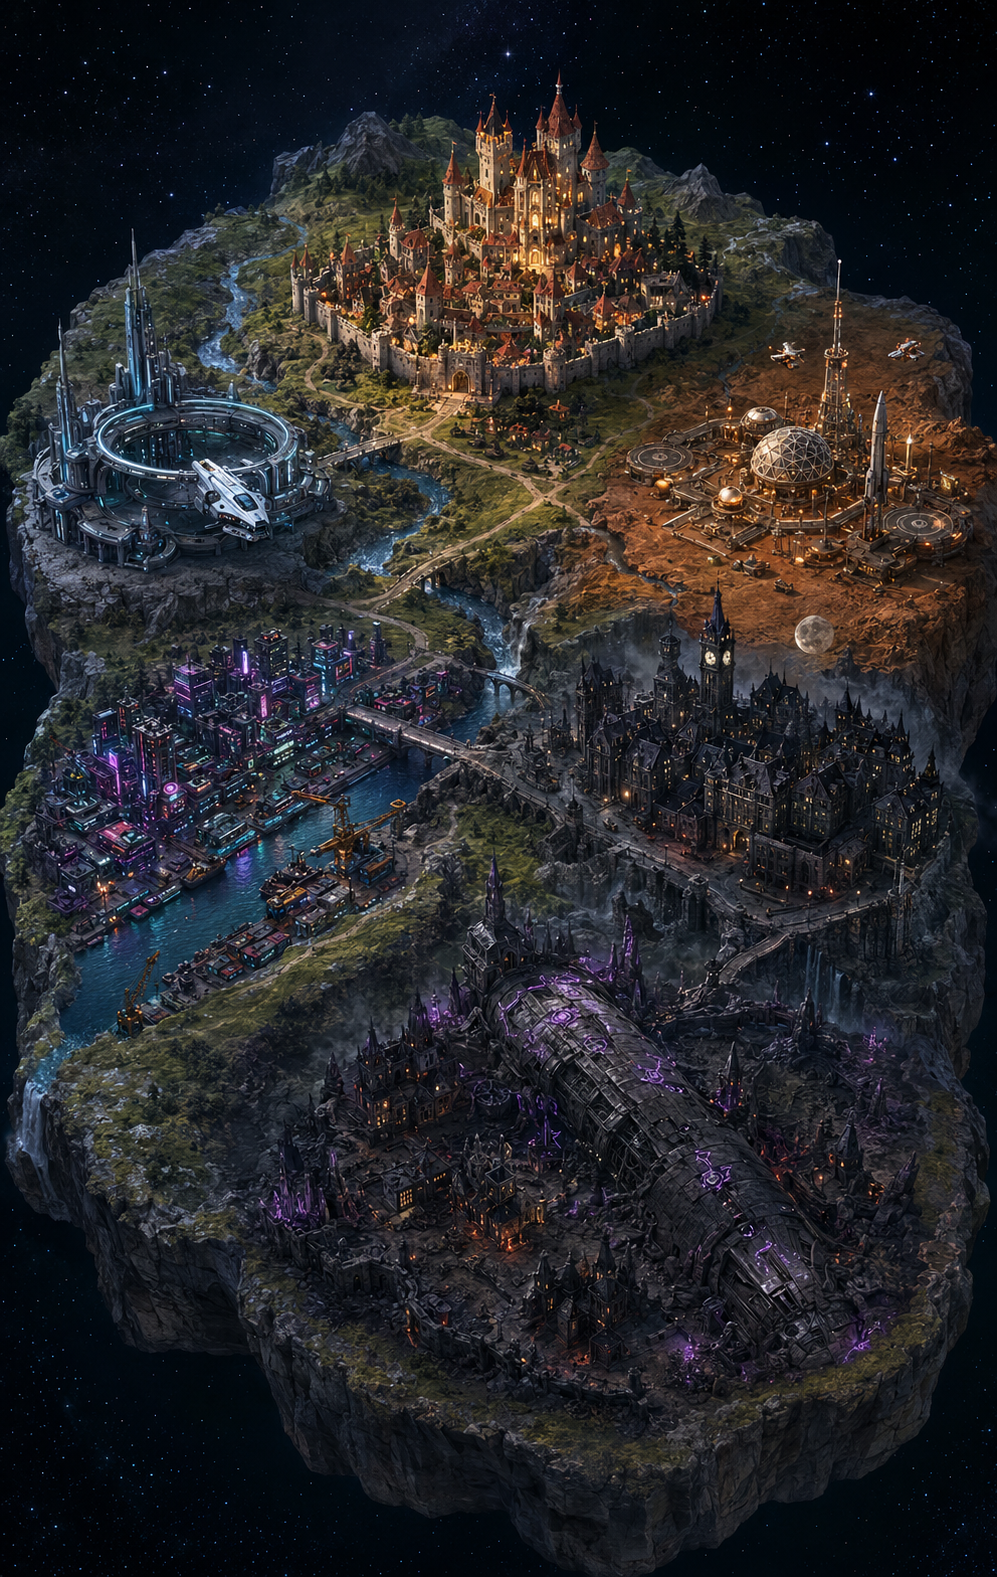
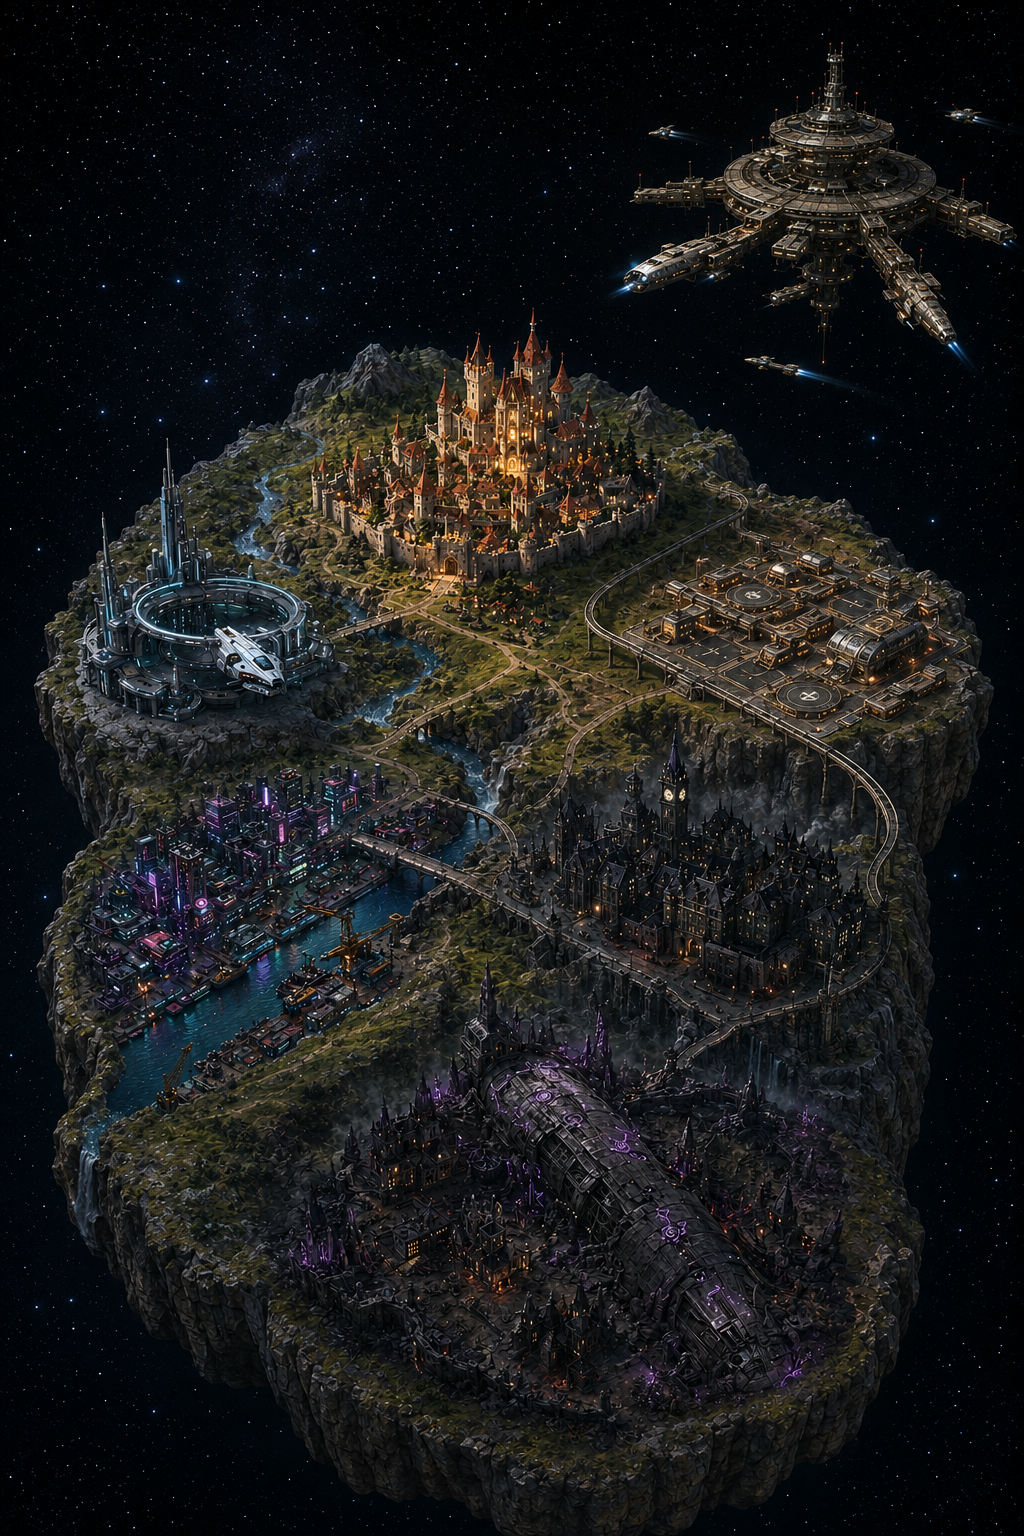
feat(site): update multiverse map to v2 artwork, reposition hotspots
Swaps site/assets/discworld/floating-island.{png,webp} for the updated
master composition (campaign-codex-floating-island-master-v2.png, converted
to the same webp+png production pair as before). The v2 art reworks the
Traveller district (a walled tech city with helipads, replacing the earlier
dome/rocket outpost) and adds a space station in the sky.

Composition shifted enough (different image dimensions too: 1024x1536 vs
the old 997x1577) that all six hotspot positions needed remapping, done
with the same grid-overlay measurement technique as the original placement
and re-verified per-district via cropped screenshots.

Raw source (campaign-codex-floating-island-master-v2.png) is not committed,
consistent with not committing the original raw concept-art pack.

diff --git a/site/index.html b/site/index.html
@@ -69,36 +69,36 @@
             >
           </picture>
 
-          <a href="#install" class="city-hotspot city-hotspot-live" style="left: 49%; top: 19%;" aria-label="Enter Pathfinder 1st Edition — live">
+          <a href="#install" class="city-hotspot city-hotspot-live" style="left: 46%; top: 29%;" aria-label="Enter Pathfinder 1st Edition — live">
             <span class="city-hotspot-dot" aria-hidden="true"></span>
             <span class="city-hotspot-label">Pathfinder 1st Edition<span class="city-tm">*</span></span>
           </a>
 
-          <span class="city-hotspot city-hotspot-soon" style="left: 15%; top: 31%;">
+          <span class="city-hotspot city-hotspot-soon" style="left: 16%; top: 40%;">
             <span class="city-hotspot-dot" aria-hidden="true"></span>
             <span class="city-hotspot-label">Starfinder 1st Edition<span class="city-tm">*</span></span>
             <span class="city-hotspot-pill">SOON</span>
           </span>
 
-          <span class="city-hotspot city-hotspot-soon" style="left: 79%; top: 32%;">
+          <span class="city-hotspot city-hotspot-soon" style="left: 78%; top: 38%;">
             <span class="city-hotspot-dot" aria-hidden="true"></span>
             <span class="city-hotspot-label">Traveller<span class="city-tm">*</span></span>
             <span class="city-hotspot-pill">SOON</span>
           </span>
 
-          <span class="city-hotspot city-hotspot-soon" style="left: 18%; top: 50%;">
+          <span class="city-hotspot city-hotspot-soon" style="left: 20%; top: 56%;">
             <span class="city-hotspot-dot" aria-hidden="true"></span>
             <span class="city-hotspot-label">Cyberpunk Red<span class="city-tm">*</span></span>
             <span class="city-hotspot-pill">SOON</span>
           </span>
 
-          <span class="city-hotspot city-hotspot-soon" style="left: 76%; top: 46%;">
+          <span class="city-hotspot city-hotspot-soon" style="left: 70%; top: 54%;">
             <span class="city-hotspot-dot" aria-hidden="true"></span>
             <span class="city-hotspot-label">World of Darkness<span class="city-tm">*</span></span>
             <span class="city-hotspot-pill">SOON</span>
           </span>
 
-          <span class="city-hotspot city-hotspot-soon" style="left: 57%; top: 67%;">
+          <span class="city-hotspot city-hotspot-soon" style="left: 56%; top: 71%;">
             <span class="city-hotspot-dot" aria-hidden="true"></span>
             <span class="city-hotspot-label">Solarus Arcanum</span>
             <span class="city-hotspot-pill">SOON</span>
